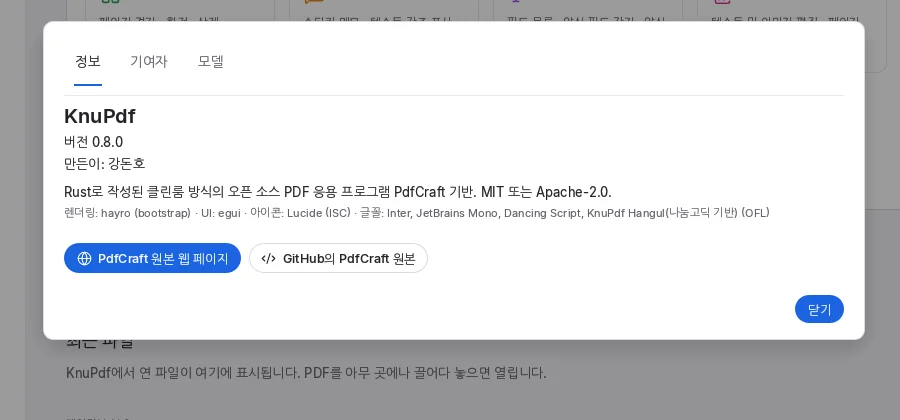
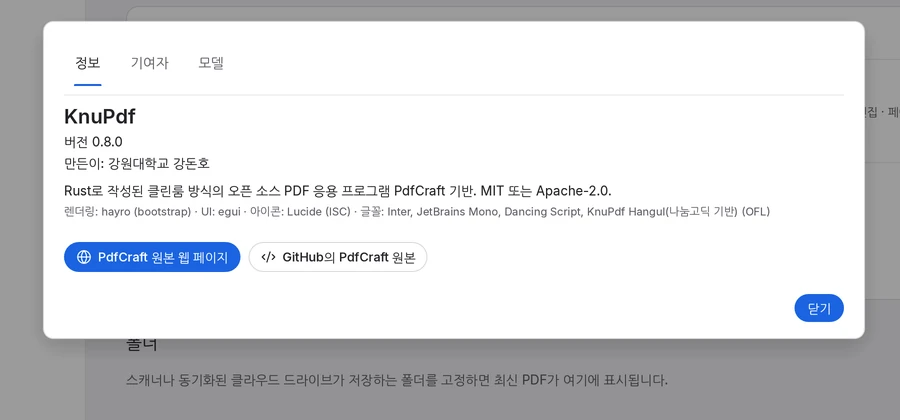
KnuPdf manual: About screenshot shows 만든이 강원대학교 강돈호
Re-captured with the headless shot example at 2x and cropped to the old
900x420 frame. Alt text and ATTRIBUTION entry updated.

Claude-Session: https://claude.ai/code/session_0141jmtrug8ET81h5UuihPeU

diff --git a/docs/manual/index.html b/docs/manual/index.html
@@ -242,7 +242,7 @@
       <details><summary>PDF를 한글(.hwpx) 파일로 바꿀 수 있나요?</summary><p>네. 왼쪽 도구 목록에서 <b class="btn">PDF 내보내기</b>를 누르고 <b class="btn">한글 (.hwpx)</b>를 고른 뒤, 저장할 이름을 정해요. 한글 프로그램에서 글자를 고쳐 쓸 수 있어요. 모양이 PDF와 조금 다를 수 있으니 꼭 열어서 확인해요.</p></details>
       <details><summary>설치하지 않고 쓸 수 있나요?</summary><p>네. 인터넷 브라우저에서 쓰는 <a href="https://claude.ai/artifact/CzyCoaMnWXithtxtsuF2hq" target="_blank" rel="noopener">KnuPdf 웹판</a>이 있어요. 이것도 파일을 내 브라우저 안에서만 다뤄요. 설치 없이 쓰는 휴대용 zip도 있어요(압축을 풀고 <b>KnuPdf.exe</b>를 실행).</p></details>
       <details><summary>프로그램 버전과 만든 사람이 궁금해요.</summary><p><b class="btn">메뉴</b> → <b class="btn">도움말</b> → <b class="btn">KnuPdf 정보</b>를 눌러요.</p>
-        <figure style="margin-top:10px"><img src="images/about.webp" alt="KnuPdf 정보 창. 버전 0.8.0, 만든이 강돈호" width="900" height="420" loading="lazy"></figure></details>
+        <figure style="margin-top:10px"><img src="images/about.webp" alt="KnuPdf 정보 창. 버전 0.8.0, 만든이 강원대학교 강돈호" width="900" height="420" loading="lazy"></figure></details>
     </div>
     <div class="note sun"><strong>우리의 약속</strong><p>다른 사람의 이름, 주민등록번호, 전화번호는 그 사람의 소중한 비밀이에요. 친구나 가족의 정보가 담긴 PDF를 다른 사람에게 보낼 때는 먼저 미션 7로 지우고 보내요.</p></div>
   </section>

diff --git a/ATTRIBUTION.md b/ATTRIBUTION.md
@@ -259,7 +259,7 @@ Every asset PdfCraft includes, bundles or uses to build its published material, 
 | `assets/app-icon-knupdf/knupdf.ico` | KnuPdf app icon (Windows ICO) | KnuPdf contributors | MIT OR Apache-2.0 | Contributor-original: drawn from simple geometric shapes, no third-party material (see assets/app-icon-knupdf/LICENSE.txt) | Windows executable and installer icon, rendered from knupdf.svg |
 | `assets/app-icon-knupdf/knupdf-document-1024.png` | KnuPdf PDF document icon (1024 px) | KnuPdf contributors | MIT OR Apache-2.0 | Contributor-original: drawn from simple geometric shapes, no third-party material (see assets/app-icon-knupdf/LICENSE.txt) | PDF file-type icon, rendered from knupdf-document.svg |
 | `assets/app-icon-knupdf/knupdf-document.ico` | KnuPdf PDF document icon (Windows ICO) | KnuPdf contributors | MIT OR Apache-2.0 | Contributor-original: drawn from simple geometric shapes, no third-party material (see assets/app-icon-knupdf/LICENSE.txt) | Windows PDF file-type icon, rendered from knupdf-document.svg |
-| `docs/manual/images/about.webp` | KnuPdf user manual screenshot (about) | KnuPdf contributors | MIT OR Apache-2.0 | Contributor-original: screenshot of the KnuPdf 0.8.0 Windows build with numbered click markers; all personal data shown is made up | User manual (docs/manual) |
+| `docs/manual/images/about.webp` | KnuPdf user manual screenshot (about) | KnuPdf contributors | MIT OR Apache-2.0 | Contributor-original: headless render of the KnuPdf About dialog (crates/ui-egui/examples/shot.rs) | User manual (docs/manual) |
 | `docs/manual/images/combine.webp` | KnuPdf user manual screenshot (combine) | KnuPdf contributors | MIT OR Apache-2.0 | Contributor-original: screenshot of the KnuPdf 0.8.0 Windows build with numbered click markers; all personal data shown is made up | User manual (docs/manual) |
 | `docs/manual/images/home.webp` | KnuPdf user manual screenshot (home) | KnuPdf contributors | MIT OR Apache-2.0 | Contributor-original: screenshot of the KnuPdf 0.8.0 Windows build with numbered click markers; all personal data shown is made up | User manual (docs/manual) |
 | `docs/manual/images/icon.png` | KnuPdf app icon in the user manual | KnuPdf contributors | MIT OR Apache-2.0 | Contributor-original: rendered from assets/app-icon-knupdf/knupdf.svg | User manual header (docs/manual) |
